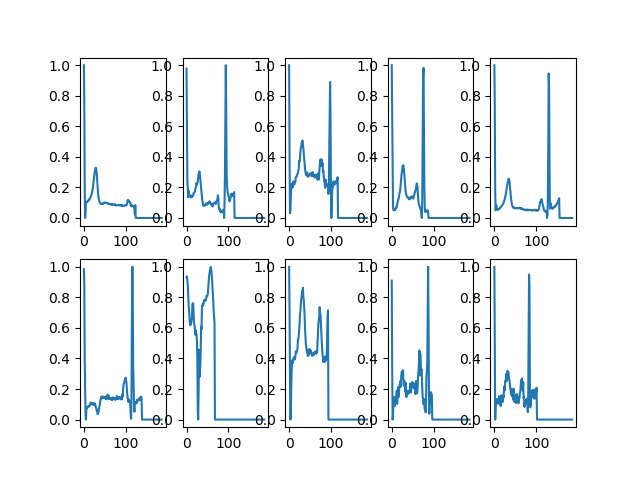
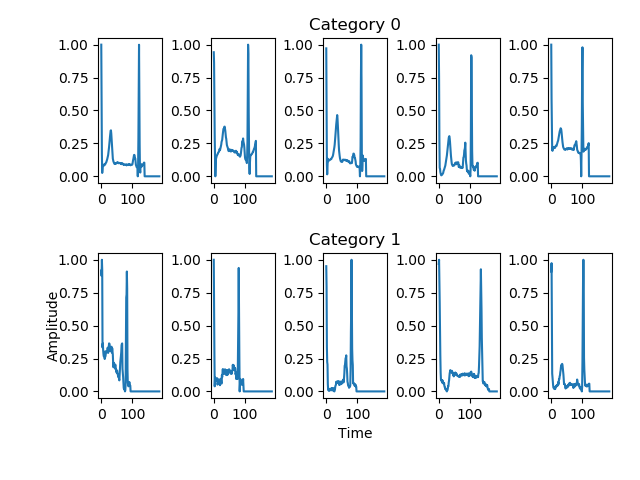
roc/pr curves

Changed region(s): [[0.0625, 0.0312, 0.9688, 0.9375], [0.2812, 0.4688, 0.3125, 0.5]]

diff --git a/ecg_arrythmia_analysis/code/visualization.py b/ecg_arrythmia_analysis/code/visualization.py
@@ -2,21 +2,41 @@ import pandas as pd
 import numpy as np
 import matplotlib.pyplot as plt
 from ecg_arrythmia_analysis.code.dataloader import *
+from sklearn.metrics import f1_score, accuracy_score, roc_curve, precision_recall_curve
 
-def evaluation(y_test, y_pred, data = 'mitbih', type='rnn'):
+def evaluation(y_test, y_pred, data = 'mitbih', model='rnn'):
     if data is 'mitbih':
-        # report accuracy
-        pass
+        'The accuracy of the model type {} on the {} data set is {}'.format(model, data, accuracy_score(y_test, y_pred))
     else:
         # report accuracy, AUROC, AUPRC
+        'The accuracy of the model type {} on the {} data set is {}'.format(model, data, accuracy_score(y_test, y_pred))
+        fpr, tpr, thres_roc = roc_curve(y_test, y_pred)
+        precision, recall, thres_pr = precision_recall_curve(y_test, y_pred)
+
+        fig, ax = plt.subplots(nrows=1, ncols=2)
+        ax[0].plot(fpr,tpr)
+        ax[0].set_title("ROC Curve for ptbdb data set")
+        ax[0].set_xlabel("FPR")
+        ax[0].set_ylabel("TPR")
+
+        ax[1].plot(recall, precision)
+        ax[1].set_title("PR Curve for ptbdb data set")
+        ax[1].set_xlabel("Recall")
+        ax[1].set_ylabel("Precision")
+        
+        plt.tight_layout()
+        plt.savefig('ecg_arrythmia_analysis/figures/metrics')
+
+
+
         pass
 
 
-def tail_end_plot(y_pred, y_test, data, type):
+def tail_end_plot(y_pred, y_test, data, model):
     pass
 
 
-def plotting(y_test, y_pred, data = 'mitbih', type='rnn'):
+def plotting(y_test, y_pred, data = 'mitbih', model='rnn'):
     if data is 'mitbih':
         # plot accuracy
         # plot tail-end-plot
@@ -40,13 +60,13 @@ def vis_data(data, n_example):
 
     n_row = len(cat)
 
-    fig, ax = plt.subplots(nrows = n_row, ncols=1, sharex = True, sharey= True)
+    fig, ax = plt.subplots(nrows = n_row, ncols=1, sharex = True, sharey= True, figsize = (20,15))
     plt.xlabel("Time")
-    plt.ylabel('Amplitude')
+    #plt.ylabel('Amplitude')
     for c_idx, c in enumerate(cat):
         sample = np.random.choice(idx[c],n_example)
         ax[c_idx].set(title = 'Category {}'.format(c))
-        #ax[c_idx].set_ylabel("Amplitude")
+        ax[c_idx].set_ylabel("Amplitude")
         ax[c_idx].set_frame_on(False)
         ax[c_idx].tick_params(labelcolor=(1.,1.,1., 0.0), top='off', bottom='off', left='off', right='off')
         for count, i in enumerate(sample, start = 1):

diff --git a/ecg_arrythmia_analysis/analysis.py b/ecg_arrythmia_analysis/analysis.py
@@ -1,8 +1,7 @@
 #%%
-
 from ecg_arrythmia_analysis.code.dataloader import *
 from ecg_arrythmia_analysis.code.architectures import *
-# from ecg_arrythmia_analysis.code.visualization import *
+from ecg_arrythmia_analysis.code.visualization import *
 from ecg_arrythmia_analysis.code.functions import *
 from tensorflow.keras.callbacks import ModelCheckpoint, EarlyStopping, ReduceLROnPlateau
 from sklearn.metrics import f1_score, accuracy_score
@@ -19,10 +18,10 @@ print("VISUALIZATION")
 n_examples = 5
 
 # Individual visualization mitbih
-# vis_data('mitbih', n_examples)
+vis_data('mitbih', n_examples)
 
 # Individual visualization ptbdb
-# vis_data('ptbdb', n_examples)
+vis_data('ptbdb', n_examples)
 
 # Global visualization mitbih
 # Was sötte mer da mache?
